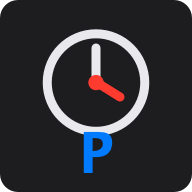
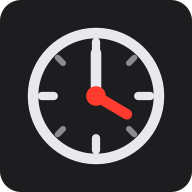
marca do Ponto: relógio no lugar do P. textual

diff --git a/web/src/App.tsx b/web/src/App.tsx
@@ -4,6 +4,7 @@ import { AuthProvider, LoginPage, RequireAuth, useAuth } from "./Auth";
 import { CompanyBar, CompanyProvider, useCompany } from "./Company";
 import { UnsavedProvider } from "./ui/Unsaved";
 import { Connection } from "./ui/Connection";
+import { BrandMark } from "./ui/BrandMark";
 import { ConfirmProvider } from "./ui/Confirm";
 import { ConfigPage } from "./pages/Config";
 import { ExportPage } from "./pages/Export";
@@ -53,11 +54,12 @@ function Shell() {
     <ConfirmProvider><UnsavedProvider><Connection /><CompanyProvider>
       <div className={vault ? "workspace notes-workspace" : kanban ? "workspace kanban-workspace" : "workspace"}>
         <a className="skip-link" href="#conteudo">Ir para o conteúdo</a>
-        <header className="mobile-header"><b>P<span className="brand-dot">.</span> Ponto</b>
+        <header className="mobile-header">
+          <b className="mobile-brand"><BrandMark className="brand-mark brand-mark-sm" /><span>Ponto</span></b>
           <button className="btn" aria-expanded={menu} aria-controls="main-navigation" onClick={() => setMenu(!menu)}>Menu {menu ? "−" : "+"}</button>
         </header>
         <aside className={"sidebar" + (menu ? " expanded" : "")}>
-          <div className="brand"><span className="brand-mark">P.</span><div>Ponto<small>GESTÃO DE JORNADA</small></div></div>
+          <div className="brand"><BrandMark /><div>Ponto<small>GESTÃO DE JORNADA</small></div></div>
           <p className="nav-caption">ESPAÇO DE TRABALHO</p>
           <nav id="main-navigation" className="side-nav" aria-label="Navegação principal">
             {TABS.map(t => <NavLink key={t.to} to={t.to} end={"end" in t ? t.end : false}

diff --git a/web/src/styles.css b/web/src/styles.css
@@ -1560,7 +1560,9 @@ button:disabled { opacity: .5; cursor: wait; }
 .workspace { min-height: 100vh; }
 .sidebar { position: fixed; inset: 0 auto 0 0; width: 236px; padding: 30px 18px; background: var(--card); border-right: 1px solid var(--line); z-index: 30; display: flex; flex-direction: column; }
 .brand { display: flex; align-items: center; gap: 12px; font-size: 22px; font-weight: 700; padding: 0 12px 36px; }
-.brand-mark { background: var(--accent); color: #fff; border-radius: 12px; padding: 7px 12px; }
+.brand-mark { width: 40px; height: 40px; flex-shrink: 0; display: block; border-radius: 11px; box-shadow: 0 1px 2px rgba(0, 0, 0, 0.18); }
+.brand-mark-sm { width: 28px; height: 28px; border-radius: 8px; }
+.mobile-brand { display: inline-flex; align-items: center; gap: 10px; font-size: 17px; }
 .brand small, .sidebar-foot small { display: block; font-size: 9px; letter-spacing: 1.5px; color: var(--muted); font-weight: 500; }
 .nav-caption, .eyebrow { font-size: 10px; letter-spacing: 1.5px; color: var(--muted); font-weight: 600; }
 .nav-caption { padding-left: 12px; }

diff --git a/web/src/ui/BrandMark.tsx b/web/src/ui/BrandMark.tsx
@@ -1,0 +1,17 @@
+/** Marca do Ponto: relógio estilizado (mesmo desenho do ícone PWA). */
+export function BrandMark({ className = "brand-mark", title = "Ponto" }: { className?: string; title?: string }) {
+  return (
+    <svg className={className} viewBox="0 0 40 40" role="img" aria-label={title}>
+      <title>{title}</title>
+      <rect width="40" height="40" rx="11" fill="#1d1d1f" />
+      <circle cx="20" cy="20" r="12.5" fill="none" stroke="#e8e8ed" strokeWidth="2.25" />
+      <g stroke="#e8e8ed" strokeLinecap="round">
+        <path d="M20 9.2v2.2M20 28.6v2.2M9.2 20h2.2M28.6 20h2.2" strokeWidth="1.8" />
+        <path d="M12.4 12.4l1.5 1.5M26.1 26.1l1.5 1.5M26.1 12.4l-1.5 1.5M13.9 26.1l-1.5 1.5" strokeWidth="1.4" opacity=".55" />
+      </g>
+      <line x1="20" y1="20" x2="20" y2="11.5" stroke="#e8e8ed" strokeWidth="2.2" strokeLinecap="round" />
+      <line x1="20" y1="20" x2="26.2" y2="23.6" stroke="#ff3b30" strokeWidth="2.2" strokeLinecap="round" />
+      <circle cx="20" cy="20" r="2.1" fill="#ff3b30" />
+    </svg>
+  );
+}

diff --git a/web/src/Auth.tsx b/web/src/Auth.tsx
@@ -1,6 +1,7 @@
 import { createContext, useContext, useEffect, useState, type FormEvent, type ReactNode } from "react";
 import { Navigate, useLocation, useNavigate } from "react-router-dom";
 import { api } from "./api";
+import { BrandMark } from "./ui/BrandMark";
 import { ApiError } from "./types";
 
 type AuthState = { user: string | null; ready: boolean; refresh: () => Promise<void>; logout: () => Promise<void> };
@@ -87,7 +88,7 @@ export function LoginPage() {
   return (
     <div className="login-shell">
       <form className="login-card" onSubmit={submit}>
-        <div className="brand"><span className="brand-mark">P.</span><div>Ponto<small>ACESSO</small></div></div>
+        <div className="brand"><BrandMark /><div>Ponto<small>ACESSO</small></div></div>
         <p className="muted">Entre com seu usuário e senha para continuar.</p>
         <label>Usuário
           <input autoComplete="username" autoFocus value={name} onChange={e => setName(e.target.value)} required />

diff --git a/web/tools/Icon.java b/web/tools/Icon.java
@@ -1,16 +1,17 @@
 import javax.imageio.ImageIO;
+import java.awt.BasicStroke;
 import java.awt.Color;
-import java.awt.Font;
-import java.awt.FontMetrics;
 import java.awt.Graphics2D;
 import java.awt.RenderingHints;
+import java.awt.geom.Ellipse2D;
+import java.awt.geom.Line2D;
 import java.awt.geom.RoundRectangle2D;
 import java.awt.image.BufferedImage;
 import java.nio.file.Path;
 
 /**
- * The PWA icons: clock + "P", the same drawing as web/public/icon.svg, in the
- * theme colours (ink background, paper clock, stamp-red hand, accent-blue P).
+ * The PWA icons: polished clock mark, same drawing as web/public/icon.svg, in the
+ * theme colours (ink background, paper dial, stamp-red hand).
  * iOS needs real PNGs, so they are generated once and committed; this file is
  * the source. Run from the project root:
  *
@@ -21,7 +22,6 @@ public final class Icon {
     private static final Color INK = new Color(0x1d, 0x1d, 0x1f);
     private static final Color PAPER = new Color(0xe8, 0xe8, 0xed);
     private static final Color STAMP = new Color(0xff, 0x3b, 0x30);
-    private static final Color ACCENT = new Color(0x00, 0x7a, 0xff);
 
     public static void main(String[] args) throws Exception {
         Path dir = Path.of(args.length > 0 ? args[0] : "web/public");
@@ -38,25 +38,43 @@ public final class Icon {
         g.setRenderingHint(RenderingHints.KEY_STROKE_CONTROL, RenderingHints.VALUE_STROKE_PURE);
 
         g.setColor(INK);
-        g.fill(new RoundRectangle2D.Float(0, 0, s, s, s * 0.1875f, s * 0.1875f));
+        g.fill(new RoundRectangle2D.Float(0, 0, s, s, s * 0.21875f, s * 0.21875f));
 
-        float cx = s * 0.5f, cy = s * 0.43f, r = s * 0.254f, w = s * 0.047f;
-        g.setStroke(new java.awt.BasicStroke(w, java.awt.BasicStroke.CAP_ROUND, java.awt.BasicStroke.JOIN_ROUND));
+        float cx = s * 0.5f, cy = s * 0.5f, r = s * 0.328f, w = s * 0.055f;
+        g.setStroke(new BasicStroke(w, BasicStroke.CAP_ROUND, BasicStroke.JOIN_ROUND));
         g.setColor(PAPER);
-        g.draw(new java.awt.geom.Ellipse2D.Float(cx - r, cy - r, r * 2, r * 2));
-        g.drawLine((int) cx, (int) cy, (int) cx, (int) (cy - r * 0.7f));      // minute hand, 12
-        g.setColor(STAMP);
-        g.drawLine((int) cx, (int) cy, (int) (cx + r * 0.5f), (int) (cy + r * 0.3f));  // hour hand
-        g.fill(new java.awt.geom.Ellipse2D.Float(cx - w * 0.85f, cy - w * 0.85f, w * 1.7f, w * 1.7f));
+        g.draw(new Ellipse2D.Float(cx - r, cy - r, r * 2, r * 2));
 
-        g.setColor(ACCENT);
-        g.setFont(new Font(Font.SANS_SERIF, Font.BOLD, Math.round(s * 0.29f)));
-        String p = "P";
-        FontMetrics fm = g.getFontMetrics();
-        g.drawString(p, (s - fm.stringWidth(p)) / 2f, s * 0.9f);
+        float major = s * 0.043f, minor = s * 0.031f;
+        float tip = r * 0.86f, deep = r * 0.67f, shallow = r * 0.74f;
+        g.setStroke(new BasicStroke(major, BasicStroke.CAP_ROUND, BasicStroke.JOIN_ROUND));
+        tick(g, cx, cy, tip, deep, 0);
+        tick(g, cx, cy, tip, deep, 90);
+        tick(g, cx, cy, tip, deep, 180);
+        tick(g, cx, cy, tip, deep, 270);
+        g.setColor(new Color(PAPER.getRed(), PAPER.getGreen(), PAPER.getBlue(), 140));
+        g.setStroke(new BasicStroke(minor, BasicStroke.CAP_ROUND, BasicStroke.JOIN_ROUND));
+        tick(g, cx, cy, tip, shallow, 45);
+        tick(g, cx, cy, tip, shallow, 135);
+        tick(g, cx, cy, tip, shallow, 225);
+        tick(g, cx, cy, tip, shallow, 315);
+
+        g.setColor(PAPER);
+        g.setStroke(new BasicStroke(w, BasicStroke.CAP_ROUND, BasicStroke.JOIN_ROUND));
+        g.draw(new Line2D.Float(cx, cy, cx, cy - r * 0.68f)); // minute → 12
+        g.setColor(STAMP);
+        g.draw(new Line2D.Float(cx, cy, cx + r * 0.49f, cy + r * 0.29f)); // hour
+        float hub = w * 0.93f;
+        g.fill(new Ellipse2D.Float(cx - hub, cy - hub, hub * 2, hub * 2));
 
         g.dispose();
         ImageIO.write(img, "png", f.toFile());
         System.out.println("png " + f + "  " + s + "x" + s);
+    }
+
+    private static void tick(Graphics2D g, float cx, float cy, float outer, float inner, double deg) {
+        double a = Math.toRadians(deg - 90);
+        float cos = (float) Math.cos(a), sin = (float) Math.sin(a);
+        g.draw(new Line2D.Float(cx + cos * inner, cy + sin * inner, cx + cos * outer, cy + sin * outer));
     }
 }
